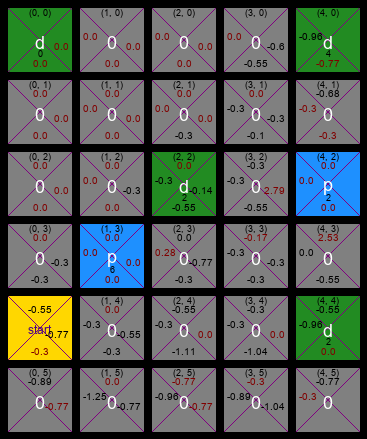
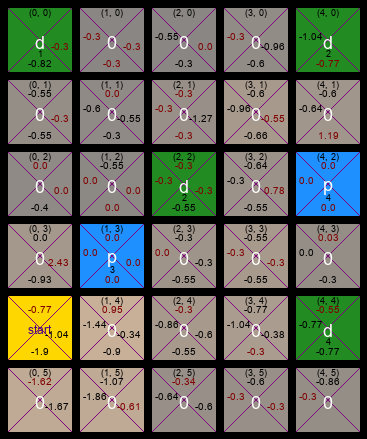
Added some promts for user

diff --git a/main.py b/main.py
@@ -111,7 +111,7 @@ def plotPerformanceDelSteps():
     plt.xlabel('Steps')
     plt.ylabel('Block delivered')
     plt.savefig('performance_del_steps_plot.png')
-    
+
 def output_to_exel(df_marks):
     writer = pd.ExcelWriter('output' + '.xlsx')
     # write dataframe to excel
@@ -122,10 +122,13 @@ def output_to_exel(df_marks):
 # ----------------------------------------------------------
 
 # 4th experiment enabler
-fourth_expm = 0
+fourth_expm = False
 
 # visualize each step
-watch = 0
+watch = False
+
+# Ask for continue after each episode
+pit_stop = False
 
 # GET USER INPUT
 def getAcceptedInput(question, accepted_inputs, return_values):
@@ -139,24 +142,26 @@ def getAcceptedInput(question, accepted_inputs, return_values):
 
 def main():
     # take user input
-    global fourth_expm, watch, drop_off_loc, pick_up_loc
-    default = getAcceptedInput("Use default (Q_LEARNING, PEXPLOIT, no monitor, plot)?\n(yes/no):",
-                               ['yes', 'no'], [True, False])
+    global fourth_expm, watch, pit_stop, drop_off_loc, pick_up_loc
+    default = getAcceptedInput("Use default (Q_LEARNING, PEXPLOIT, no monitor, plot, no asking for continue)?"
+                               "\n(yes/no): ", ['yes', 'no'], [True, False])
     policy = ''
     if default:
         method = "Q_LEARNING"
         policy = "PEXPLOIT"
         watch = False
         plot = True
+        pit_stop = False
     else:
-        method = getAcceptedInput("Which learning method?\n(Q_LEARNING/SARSA):",
+        method = getAcceptedInput("Which learning method?\n(Q_LEARNING/SARSA): ",
                                   ["Q_LEARNING", "SARSA"], ["Q_LEARNING", "SARSA"])
-        fourth_expm = getAcceptedInput("Enable fourth experiment?\n(yes/no):", ['yes', 'no'], [True, False])
+        fourth_expm = getAcceptedInput("Enable fourth experiment?\n(yes/no): ", ['yes', 'no'], [True, False])
         if not fourth_expm:
-            policy = getAcceptedInput("Which policy?\n(PRANDOM/PEXPLOIT/PGREEDY):",
+            policy = getAcceptedInput("Which policy?\n(PRANDOM/PEXPLOIT/PGREEDY): ",
                                       ["PRANDOM", "PEXPLOIT", "PGREEDY"], ["PRANDOM", "PEXPLOIT", "PGREEDY"])
-        watch = getAcceptedInput("Monitor agent?\n(yes/no):", ['yes', 'no'], [True, False])
-        plot = getAcceptedInput("Plot performance graph?\n(yes/no):", ['yes', 'no'], [True, False])
+        watch = getAcceptedInput("Monitor agent?\n(yes/no): ", ['yes', 'no'], [True, False])
+        pit_stop = getAcceptedInput("Ask for continue after each terminate?\n(yes/no): ", ['yes', 'no'], [True, False])
+        plot = getAcceptedInput("Plot performance graph?\n(yes/no): ", ['yes', 'no'], [True, False])
 
     global world
     global episode
@@ -214,7 +219,7 @@ def main():
     if fourth_expm:
         vis_objs['world_vl'].visualize_gen(h, w)
         initWorld(h, w, world, vis_objs['world_vl'], start_x, start_y)
-    updateWorld(h, w, world, vis_objs['world_vl'])
+    updateWorld(h, w, world, vis_objs['world_vl'], start_x, start_y)
     # update final q_table with no block
     if fourth_expm:
         vis_objs['q_table_no_block'].visualize_gen(h, w)
@@ -332,7 +337,10 @@ def doSteps(steps, policy, method):
     wtn = True  # from with block to no block
 
     for step in range(0, steps):
+        # Register a step between delivery
         delivery_steps += 1
+        # Preferable path steps_count
+        world[(x, y)]['step_scores'] += 1
         # this "state" is used for q_table
         state = states[y][x]
         if (has_block): state += q_offset
@@ -387,24 +395,36 @@ def doSteps(steps, policy, method):
             if episode == 1:
                 fillQValues(h, w, q_table, world, vis_objs['first_terminate'], False, start_x, start_y)
             # ------------------------------
+
             print(q_table)
             print('episode', episode, 'is done | agent takes:', count_steps, 'steps')  # ,'| best steps: ', best_steps)
             print("\nTerminal state reached")
             episode_list.append(episode)
             steps_count_list.append(count_steps)
             terminal_reached.append('True')
+            # reset episode steps
+            count_steps = 0
             done = True
             x = 0
             y = 4
             has_block = False
             done = False
             drop_off_loc = [(0, 0), (4, 0), (2, 2), (4, 4)]
+            if watch:
+                if getAcceptedInput("Take a snapshot?\n(yes/no): ", ['yes', 'no'], [True, False]):
+                    vis_objs['agent_monitor'].snapshot(input("Save as: "))
+            if pit_stop:
+                if not getAcceptedInput("Continue?\n(yes/no): ", ['yes', 'no'], [True, False]):
+                    episode += 1
+                    break
             if fourth_expm and episode >= 2:
                 pick_up_loc = [(0, 2), (2, 0)]
                 _, _, world = ReadWorld().fill_world('testworld4thexpm.txt')
             else:
                 pick_up_loc = [(1, 3), (4, 2)]
                 _, _, world = ReadWorld().fill_world('testworld.txt')
+            # count episode
+            episode += 1
             updateDropAndPickSpots(h, w, q_table, False,
                                    drop_off_loc, pick_up_loc, vis_objs['q_table_no_block'], world)
             updateDropAndPickSpots(h, w, q_table, True,
@@ -425,10 +445,6 @@ def doSteps(steps, policy, method):
                 print('Revert q_table')
             '''
             print('-------------------------------------------------')
-            # reset episode steps
-            count_steps = 0
-            # count episode
-            episode += 1
             # break
 
         # break if the next x or y is not valid (should never happen)

diff --git a/vis_funcs.py b/vis_funcs.py
@@ -2,7 +2,6 @@ from functions import *
 
 
 def initWorld(h, w, world, world_vl, x, y):
-
     for r in range(h):
         for c in range(w):
             if world[(c, r)]['action'] == 'd': world_vl.fill_block(world[(c, r)]['coor'], 'forestgreen')
@@ -15,9 +14,19 @@ def initWorld(h, w, world, world_vl, x, y):
             world_vl.write_block(world[(c, r)]['coor'], str(world[(c, r)]['coor']), 'black', 'n', 15)
     print('Done initializing visual')
 
-def updateWorld(h, w, world, world_vl):
+def updateWorld(h, w, world, world_vl, x, y):
     for r in range(h):
         for c in range(w):
+            ss = world[(c, r)]['step_scores']
+            world_vl.fill_block(world[(c, r)]['coor'], (3*ss + 128, 2*ss + 128, ss + 128))
+            if world[(c, r)]['action'] == 'd': world_vl.fill_block(world[(c, r)]['coor'], 'forestgreen')
+            if world[(c, r)]['action'] == 'p': world_vl.fill_block(world[(c, r)]['coor'], 'dodgerblue')
+            if(r == y and c == x):
+                world_vl.fill_block(world[(x, y)]['coor'], 'gold')
+                world_vl.write_block(world[(x, y)]['coor'], 'start', 'indigo')
+            else:
+                world_vl.write_block(world[(c, r)]['coor'], world[(c, r)]['action'], 'white')
+            world_vl.write_block(world[(c, r)]['coor'], str(world[(c, r)]['coor']), 'black', 'n', 15)
             if world[(c, r)]['action'] == 'd' or world[(c, r)]['action'] == 'p':
                 world_vl.write_block(world[(c, r)]['coor'], str(world[(c, r)]['no_of_blocks']), 'black', pos='s')
     print('Done updating visual')
@@ -52,8 +61,10 @@ def updateCell(h, w, q_table, world, world_vl, has_block, prev_x, prev_y, start_
     # actions = ['n', 's', 'e', 'w']
     actions = []
     q_offset = 0
+    ss = world[(prev_x, prev_y)]['step_scores']
     if is_fillQ:
-        world_vl.fill_block(world[(prev_x, prev_y)]['coor'], world_vl.get_color(prev_x, prev_y))
+        # world_vl.fill_block(world[(prev_x, prev_y)]['coor'], world_vl.get_color(prev_x, prev_y))
+        world_vl.fill_block(world[(prev_x, prev_y)]['coor'], (3*ss + 128, 2*ss + 128, ss + 128))
     else:
         world_vl.fill_block(world[(prev_x, prev_y)]['coor'], pathen(prev_x, prev_y, world_vl))
     if world[(prev_x, prev_y)]['action'] == 'd': world_vl.fill_block(world[(prev_x, prev_y)]['coor'], 'forestgreen')

diff --git a/WorldProcessing/readWorld.py b/WorldProcessing/readWorld.py
@@ -26,7 +26,7 @@ class ReadWorld:
     def fill_world(self, file_name):
         general_world = self.read_world(file_name)
         world = dict()
-        elements = ['coor', 'north', 'south', 'west', 'east', 'action', 'no_of_blocks']
+        elements = ['coor', 'north', 'south', 'west', 'east', 'action', 'no_of_blocks', 'step_scores']
 
         num_cells_h = len(general_world)
         num_cells_w = len(general_world[0])
@@ -64,4 +64,6 @@ class ReadWorld:
                             world[(i, j)][e] = 8
                         else:
                             world[(i, j)][e] = 0
+                    if e == 'step_scores':
+                        world[(i, j)][e] = 0
         return num_cells_h, num_cells_w, world

diff --git a/Visualize/visualize.py b/Visualize/visualize.py
@@ -100,3 +100,9 @@ class Visualize:
         g = color[1]
         b = color[2]
         return r, g, b
+
+    def snapshot(self, name):
+        f_name = self.name
+        with Image.open('%s.png' % f_name) as img:
+            snapshot = img.copy()
+            snapshot.save('%s.png' % name)
